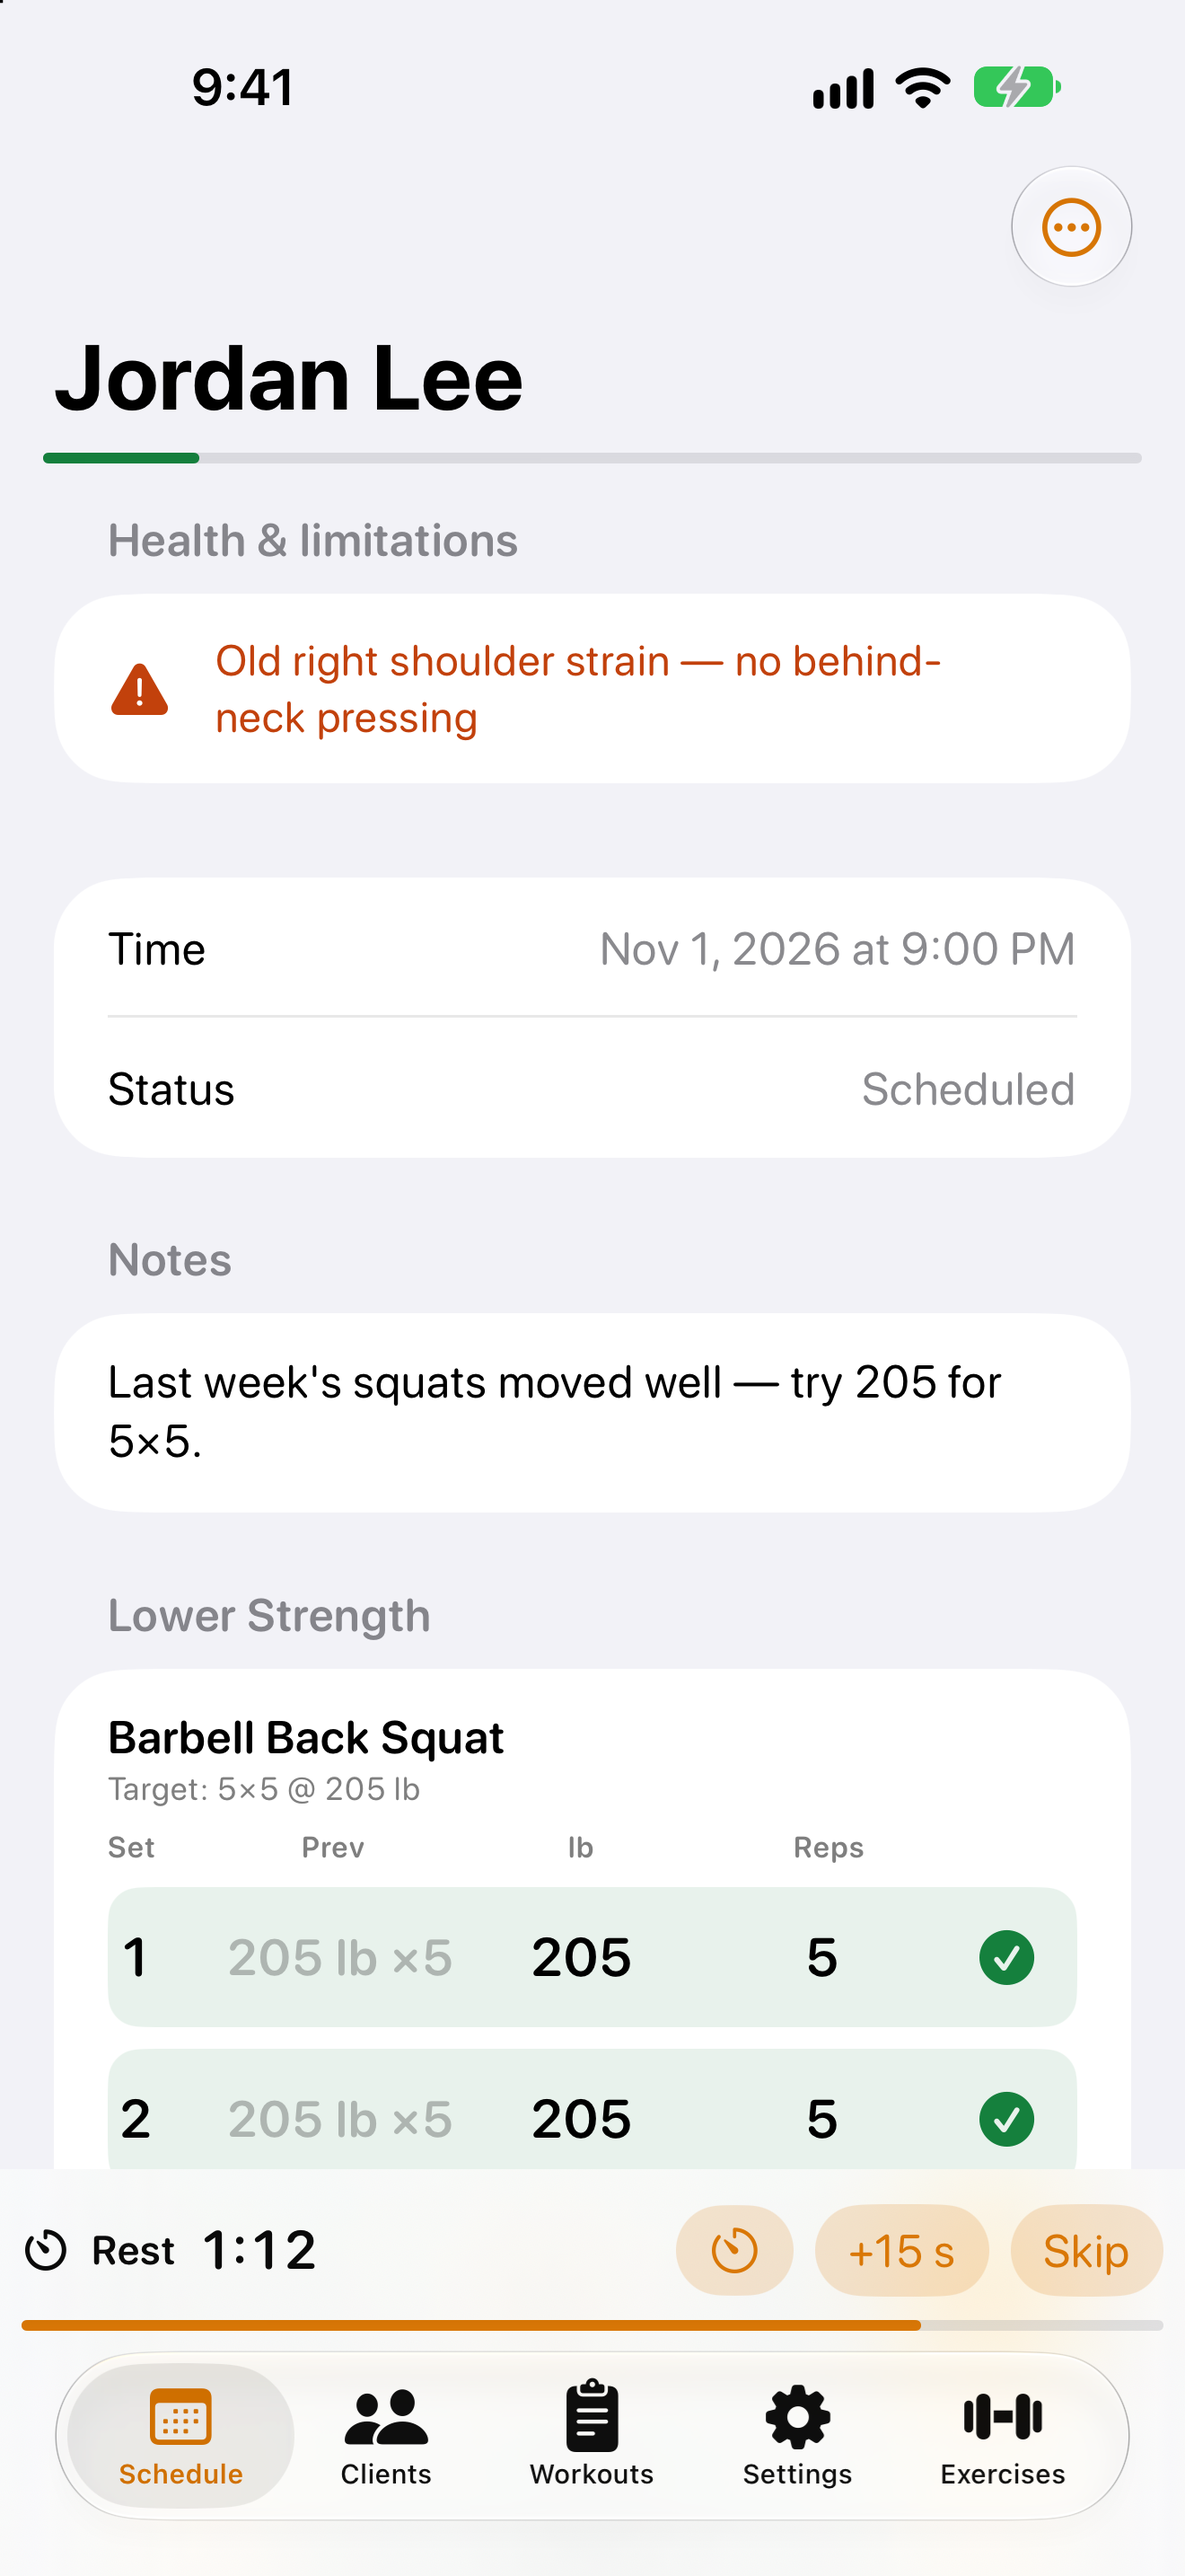
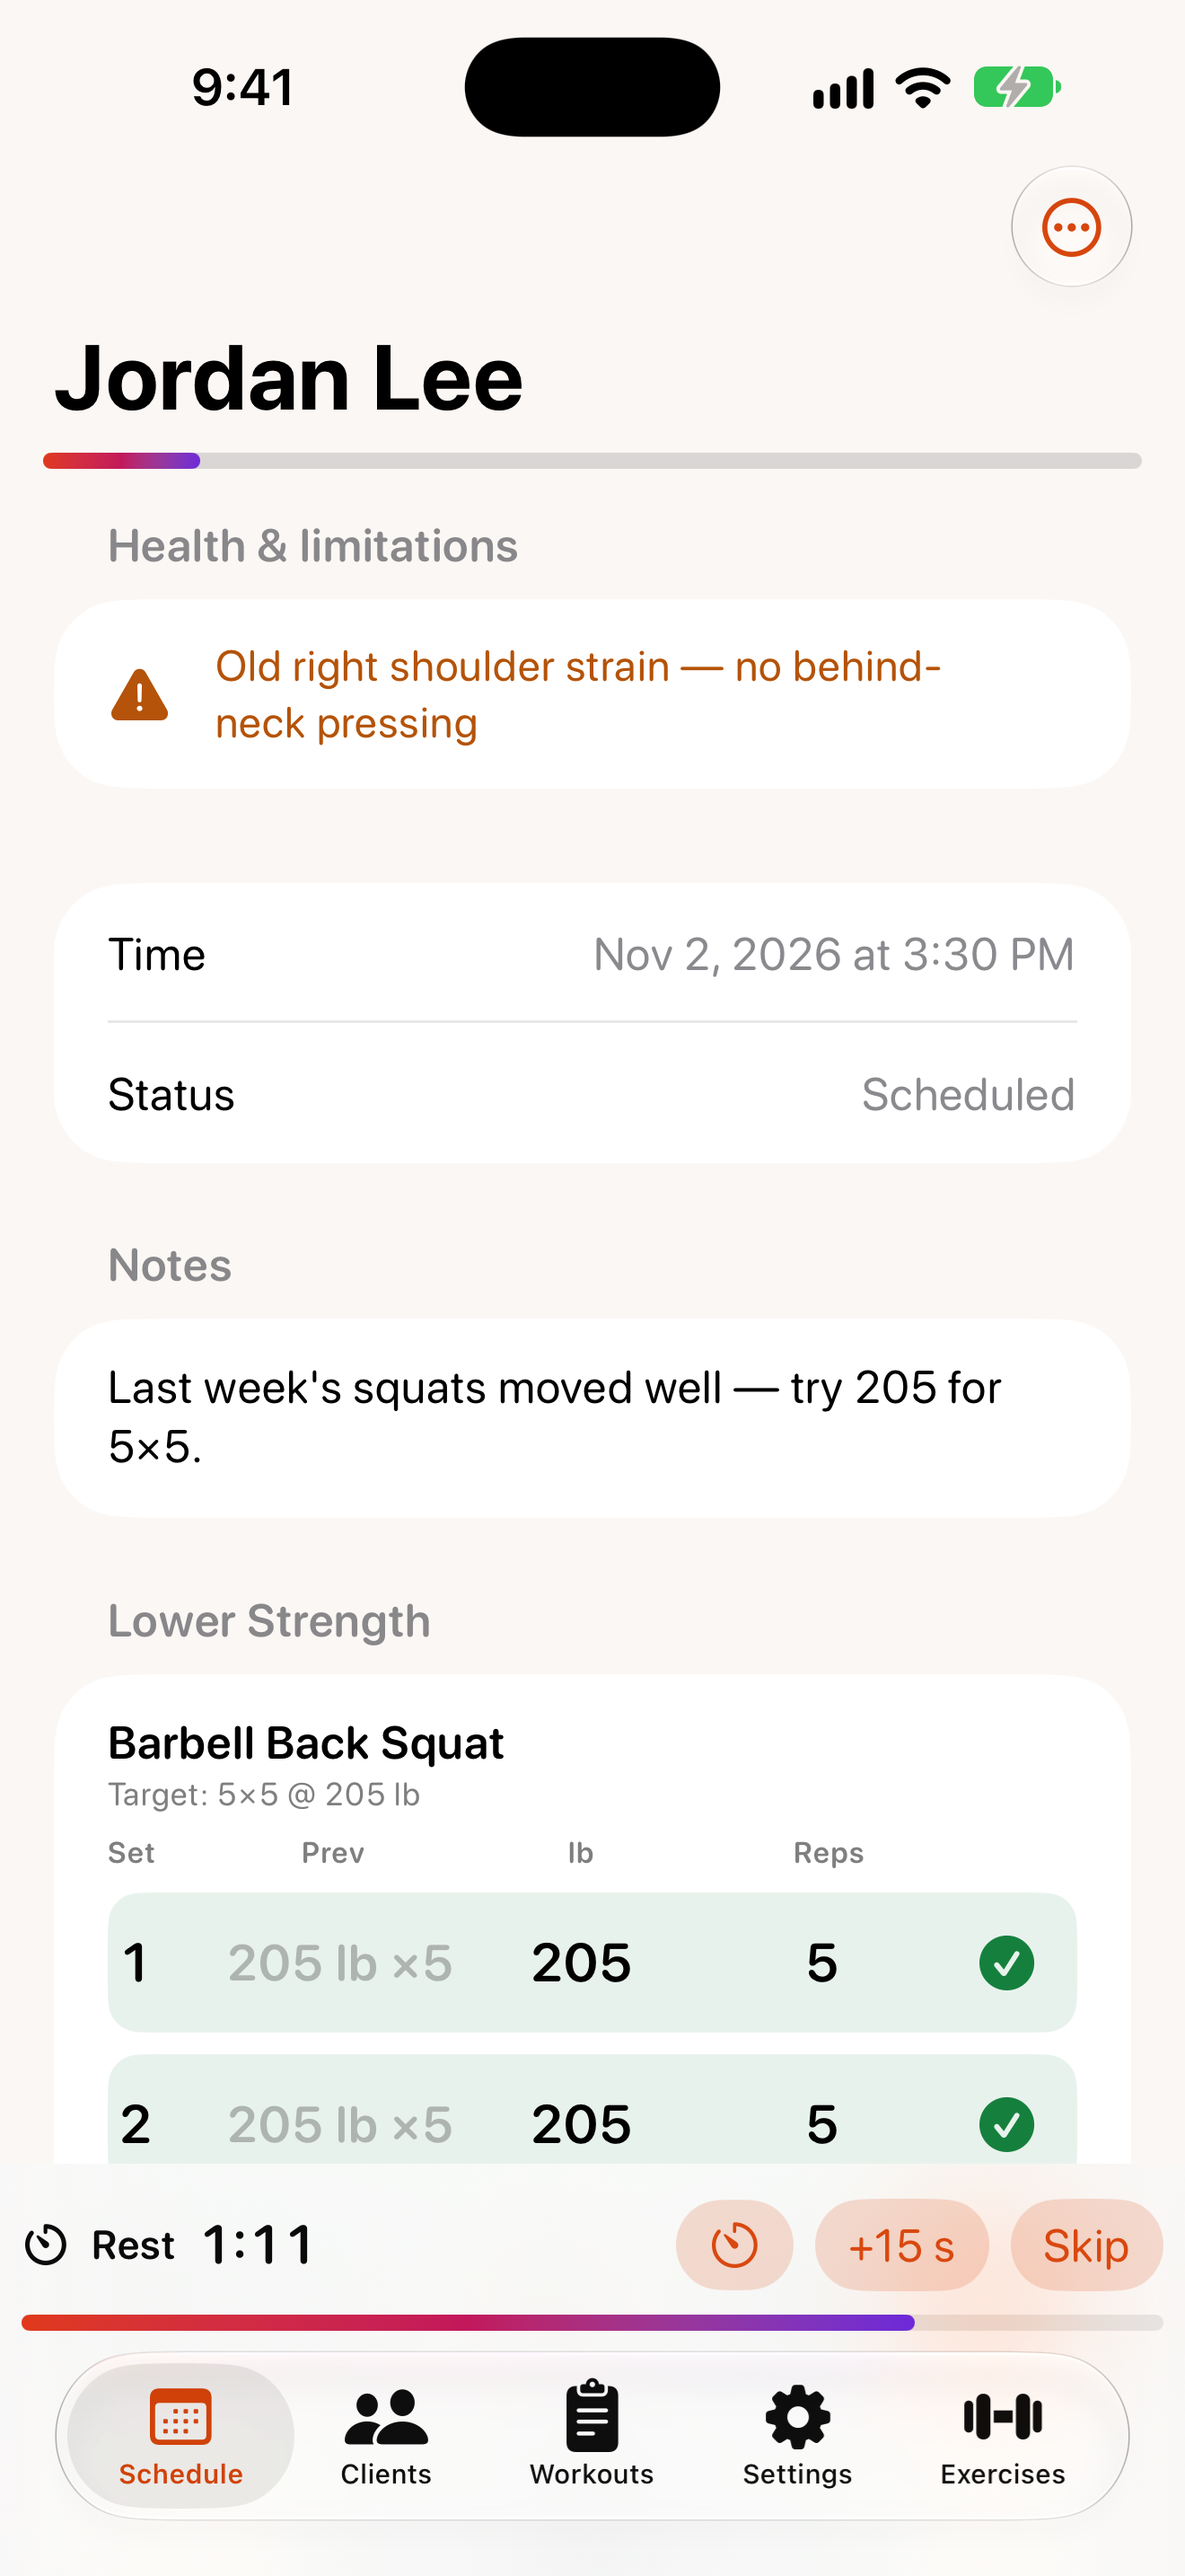
Phase 7: Docs, store imagery, and changelog

diff --git a/thoughts/qrspi/2026-11-02-icon-and-imagery-refresh/plan.md b/thoughts/qrspi/2026-11-02-icon-and-imagery-refresh/plan.md
@@ -762,7 +762,7 @@ enum WatchTheme {
 #### Manual
 - [x] Open `docs/app-store/screenshots/w1-timer-running.png`. The ring is coral. *(Rose, since BrandPrimary took the Phase 1 fallback.)*
 - [x] Open `w2-quick-start.png`. The up-next button is violet and the rest buttons are orange.
-- [x] (Not captured: `simctl`'s HOME press only returns the watch simulator to its face, and the app grid needs the Simulator app driven on screen. Verified by geometry instead: every kettlebell point lies within 0.73 of the circle radius; only the spark's outer two tips, at 1.08 radius, are trimmed by the circle.) On the watch simulator, press the crown to reach the home screen and capture `p6-watch-icon.png` with `xcrun simctl io <watch-udid> screenshot`. The kettlebell is centered and not clipped by the circle.
+- [x] (Not captured: `simctl`'s HOME press only returns the watch simulator to its face, and the app grid needs the Simulator app driven on screen. Verified by geometry instead: every kettlebell point lies within 0.73 of the circle radius; the spark's farthest tips reach 0.95 of the radius, so nothing is trimmed by the circle.) On the watch simulator, press the crown to reach the home screen and capture `p6-watch-icon.png` with `xcrun simctl io <watch-udid> screenshot`. The kettlebell is centered and not clipped by the circle.
 - [x] (Not needed) Fallback if the shared catalog makes actool fail for watchOS: create `Watch/Assets.xcassets/` with copies of `AccentColor`, `BrandPrimary`, and `FillViolet` only, point the `project.yml` entry at it, and rebuild.
 
 ---
@@ -803,13 +803,13 @@ Then run `scripts/sync-changelog.sh`.
 
 ### Verification
 #### Automated
-- [ ] `scripts/screenshots.sh` ends with "All screenshots OK."
-- [ ] `scripts/check-docs-links.sh` passes.
-- [ ] `sips -g pixelWidth -g pixelHeight docs/images/icon.png` reports 196 × 196.
-- [ ] `git diff --stat docs/changelog.md` shows the new lines.
-- [ ] The test command passes, as a final full run.
+- [x] `scripts/screenshots.sh` ends with "All screenshots OK."
+- [x] `scripts/check-docs-links.sh` passes.
+- [x] `sips -g pixelWidth -g pixelHeight docs/images/icon.png` reports 196 × 196.
+- [x] `git diff --stat docs/changelog.md` shows the new lines.
+- [x] The test command passes, as a final full run.
 
 #### Manual
-- [ ] Review the six iPhone store shots against the captions in `docs/app-store/metadata.md:137-149`. Each shot still shows what its caption claims.
-- [ ] Open `docs/index.md` in a Markdown preview and check that the new icon shows.
-- [ ] Skim `docs/guide/images/settings.png` and `clients.png`. Badges and avatars are visible.
+- [x] Review the six iPhone store shots against the captions in `docs/app-store/metadata.md:137-149`. Each shot still shows what its caption claims.
+- [x] Open `docs/index.md` in a Markdown preview and check that the new icon shows. *(Checked the regenerated `docs/images/icon.png` directly; actool's largest PNG is 152px, upscaled to 196px, displayed at 96px.)*
+- [x] Skim `docs/guide/images/settings.png` and `clients.png`. Badges and avatars are visible.

diff --git a/CHANGELOG.md b/CHANGELOG.md
@@ -13,6 +13,9 @@ The format is based on [Keep a Changelog](https://keepachangelog.com/en/1.1.0/),
 ### Changed
 - TrainMe is now an iPhone-only app (with its Apple Watch companion).
 - The iPhone and Apple Watch apps now share one version number.
+- A brand-new app icon: a bold kettlebell on a coral-to-violet sunset gradient, with dark, tinted and clear variants on iPhone and Apple Watch.
+- A brighter, warmer look throughout: colored badges on empty screens, settings and client rows, client initials avatars, and a gradient progress bar during sessions and rest timers.
+- The Apple Watch timer ring and quick-start buttons now use TrainMe's colors.
 
 ### Fixed
 - The Apple Watch now shows the running rest or timed-set countdown instead of the quick-start buttons.

diff --git a/docs/changelog.md b/docs/changelog.md
@@ -18,6 +18,9 @@ The format is based on [Keep a Changelog](https://keepachangelog.com/en/1.1.0/),
 ### Changed
 - TrainMe is now an iPhone-only app (with its Apple Watch companion).
 - The iPhone and Apple Watch apps now share one version number.
+- A brand-new app icon: a bold kettlebell on a coral-to-violet sunset gradient, with dark, tinted and clear variants on iPhone and Apple Watch.
+- A brighter, warmer look throughout: colored badges on empty screens, settings and client rows, client initials avatars, and a gradient progress bar during sessions and rest timers.
+- The Apple Watch timer ring and quick-start buttons now use TrainMe's colors.
 
 ### Fixed
 - The Apple Watch now shows the running rest or timed-set countdown instead of the quick-start buttons.
